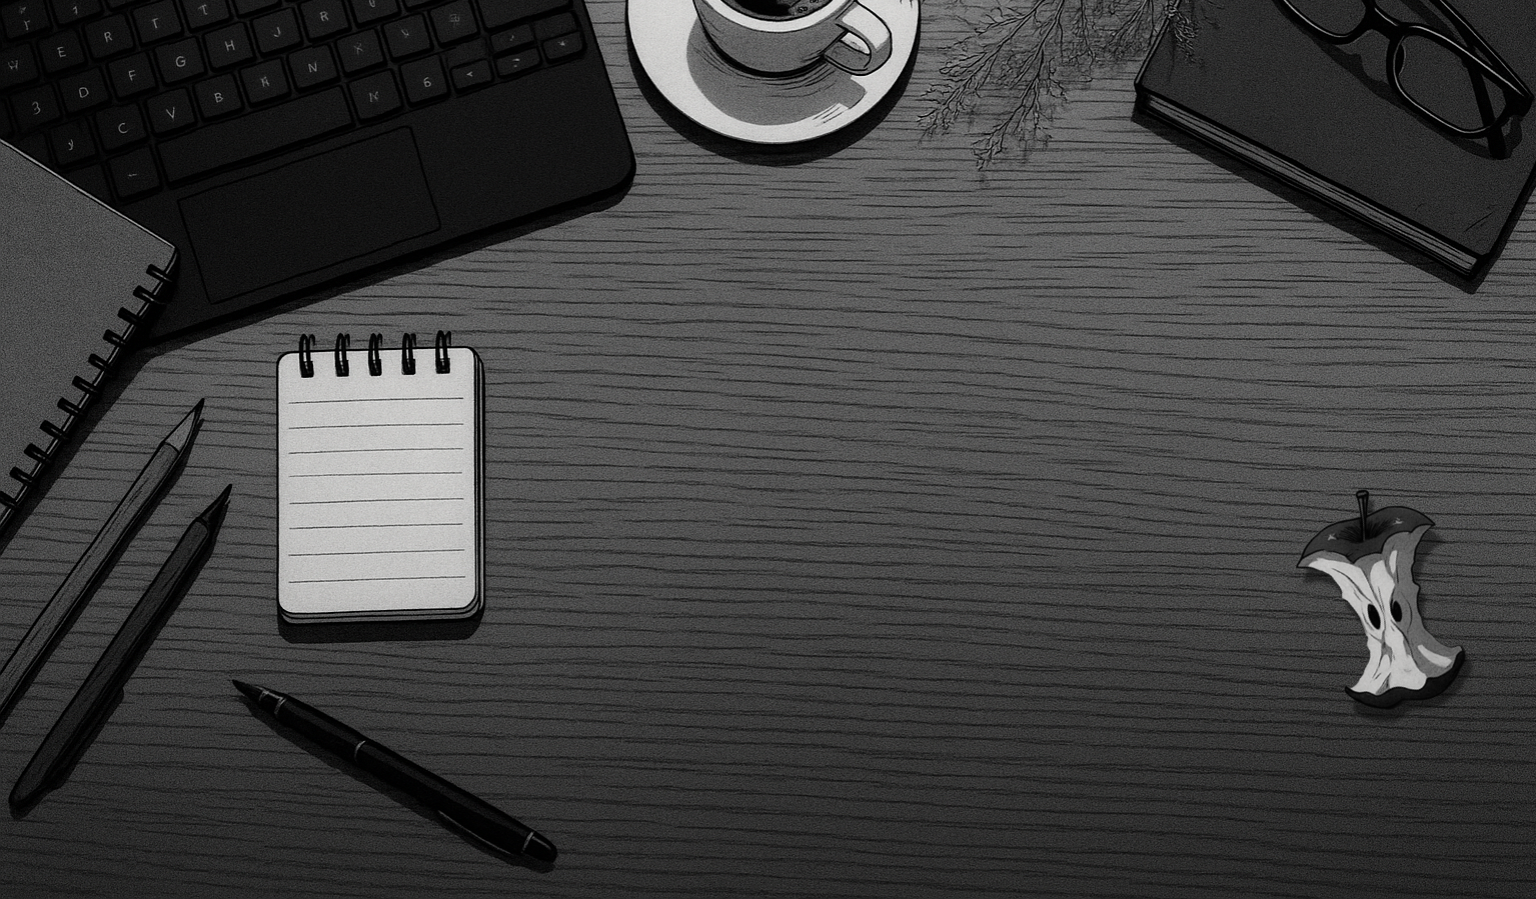
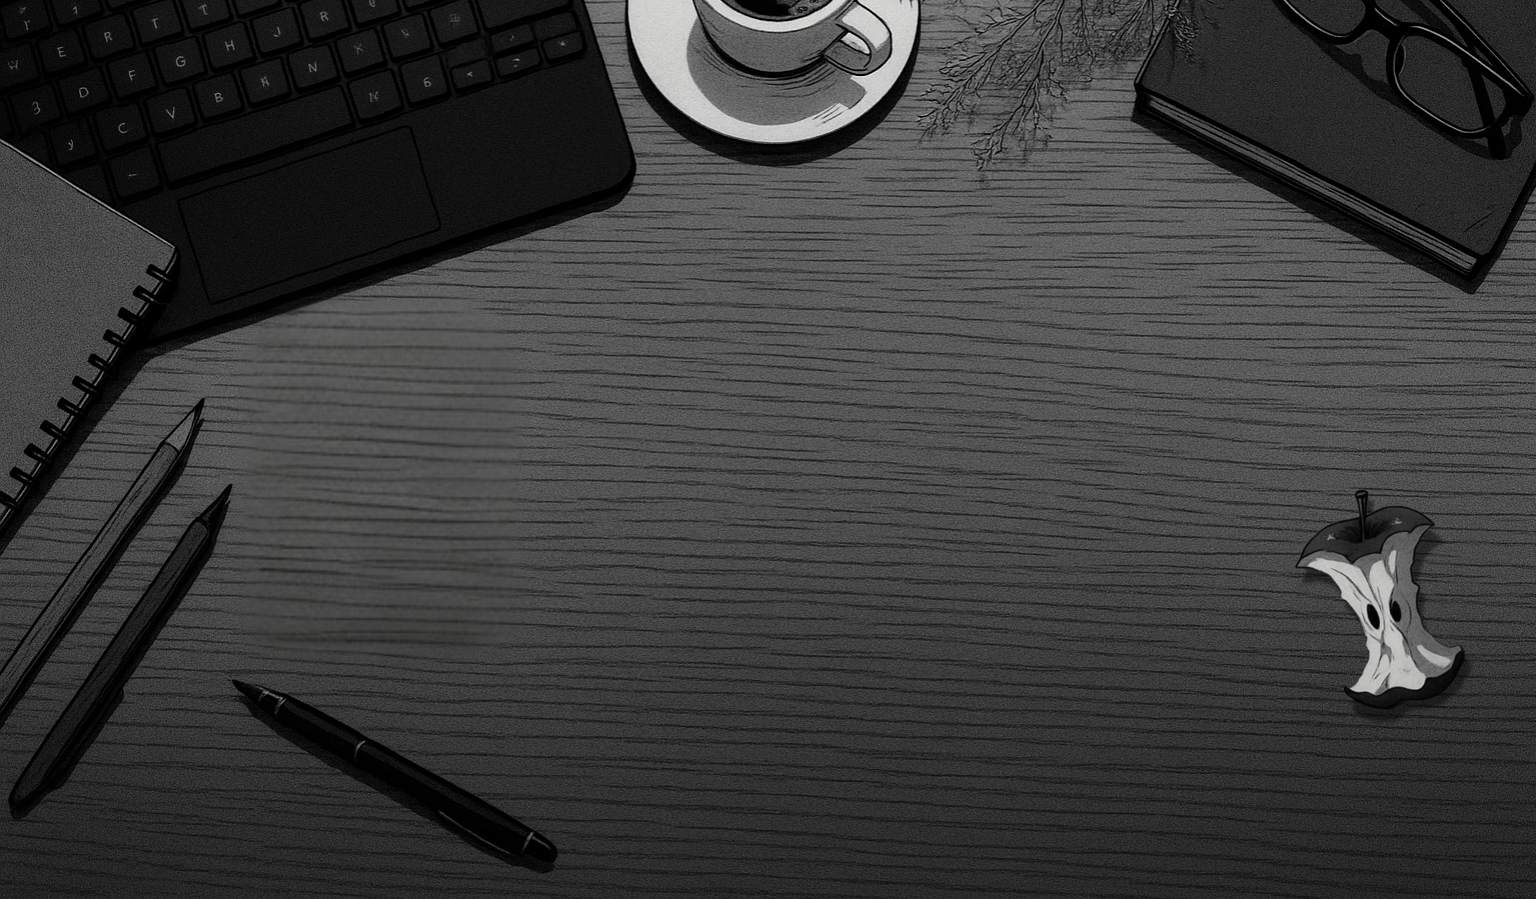
add bloco-notas

Changed region(s): [[0.1562, 0.3426, 0.3438, 0.7164], [0.875, 0.6229, 0.9062, 0.7786]]

diff --git a/style.css b/style.css
@@ -26,6 +26,10 @@ body {
 .container {
   width: 1000px;
   height: 700px;
+  display: flex;
+  justify-content: center;
+  align-items: center;
+  flex-direction: column-reverse;
 }
 
 .flipbook .hard {
@@ -71,20 +75,29 @@ body {
   margin-bottom: 10px;
 }
 
-.audio-controls {
+.music {
+  margin-top: 5rem;
+  width: 274px;
+  height: 384px;
+  background-image: url("images/bloco-notas.png");
+  background-size: cover;
   position: fixed;
-  top: 43%;
-  left: 20%;
-  transform: translateY(-50%);
-  z-index: 10;
+  left: 18%;
+  z-index: 2;
   display: flex;
   flex-direction: column;
-  transform: skew(6deg, -1deg);
+  align-items: center;
+  justify-content: flex-start;
 }
 
 .container .audio-button {
   display: flex;
   gap: 10px;
+}
+
+.audio-controls{
+ margin-top: 85px;
+   transform: skew(3deg, -1deg);
 }
 
 .audio-button button {
@@ -94,7 +107,7 @@ body {
   margin-left: 15px;
   margin-right: 15px;
   cursor: pointer;
-  font-size: 25px;
+  font-size: 22px;
 }
 
 #musicTitle {

diff --git a/index.html b/index.html
@@ -8,14 +8,17 @@
   </head>
   <body>
     <div class="container">
-      <div class="audio-controls">
-        <p id="musicTitle" style="color: rgb(0, 0, 0); text-align: center">
-          light_b.mp3
-        </p>
-        <div class="audio-button">
-          <button id="prevTrackBtn">⏮</button>
-          <button id="playPauseBtn">▶</button>
-          <button id="nextTrackBtn">⏭</button>
+      
+      <div class="music">
+        <div class="audio-controls">
+          <p id="musicTitle" style="color: rgb(0, 0, 0); text-align: center">
+            light_b.mp3
+          </p>
+          <div class="audio-button">
+            <button id="prevTrackBtn">⏮</button>
+            <button id="playPauseBtn">▶</button>
+            <button id="nextTrackBtn">⏭</button>
+          </div>
         </div>
       </div>
 

diff --git a/script.js b/script.js
@@ -21,7 +21,7 @@ document.addEventListener("DOMContentLoaded", () => {
   }
 
   bgMusic.src = musicList[currentTrack];
-  bgMusic.volume = 0.4;
+  bgMusic.volume = 0.1;
   updateMusicTitle();
 
   playPauseBtn.addEventListener("click", () => {
@@ -64,7 +64,7 @@ document.addEventListener("DOMContentLoaded", () => {
     }
   });
 
-  const audioControls = document.querySelector(".audio-controls");
+  const audioControls = document.querySelector(".music");
   const flipbook = document.getElementById("flipbook");
 
   flipbook.addEventListener("mousedown", () => {
